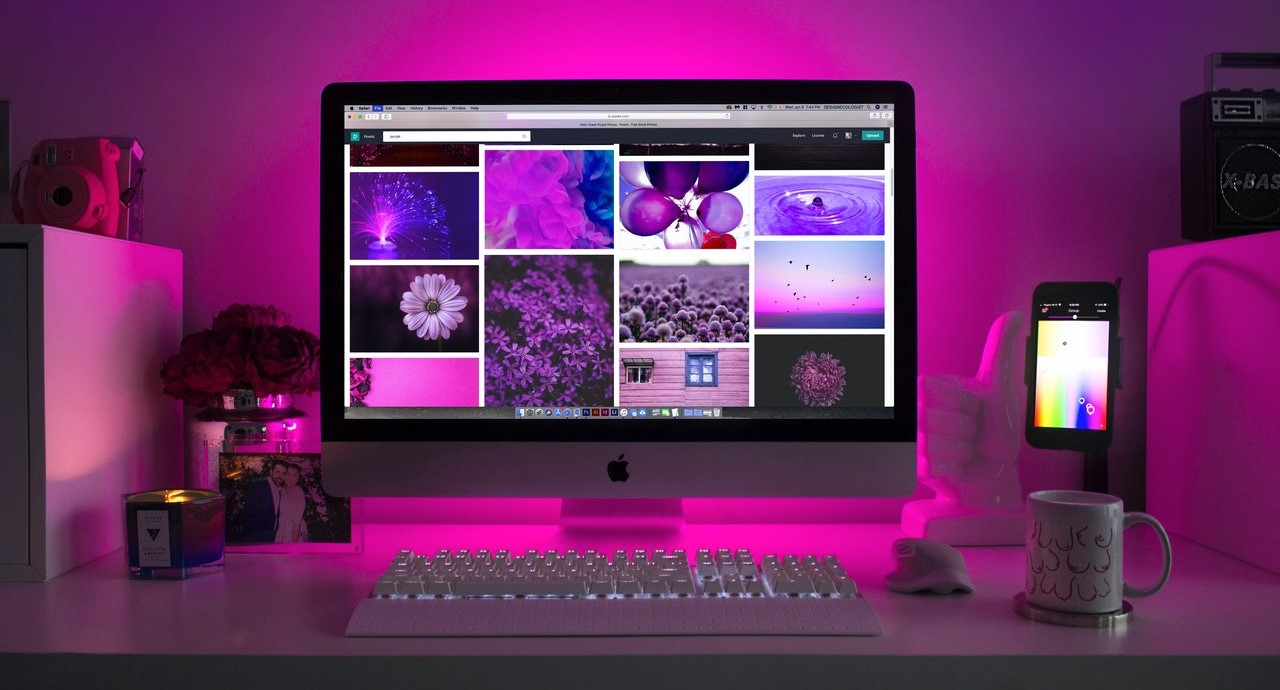
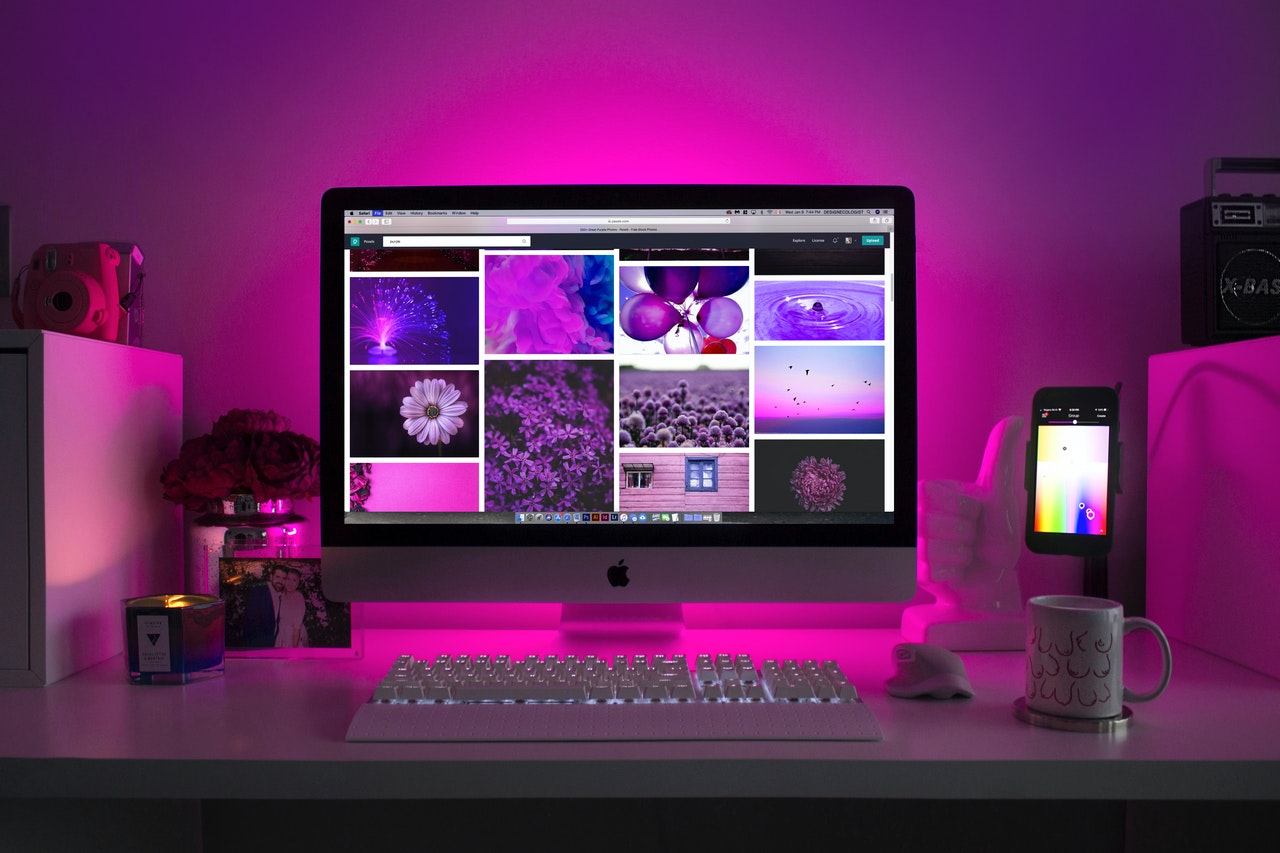
updated design, with different image for the hero (this is driving me crazy to have a responsive image with text in front of it) uploading the related css and images, i also included the link to download the resume, but i am not uploading the resume now as i still need to update it, the resume opens

diff --git a/index.html b/index.html
@@ -44,7 +44,7 @@
           <div class="col-4-lg col-4-md col-12-sm col-12-xs">
           <h2>Welcome to my portfolio</h2>
             <p>My name is Noha, I am an aspiring front-end developer</p>
-              <button type="button" class="btn btn-dark px-5 viewMyWorkBtn" >More About Me</button>
+              <button type="button" class="btn btn-primary px-5 viewMyWorkBtn" >More About Me</button>
           </div>
         </div>
       </div>
@@ -62,6 +62,7 @@
           <p>Hello,</p>
           <p>My name is Noha Ashraf, i am an aspiring fron-end developer located in Connecticut. I love creating websites that serve their purpose and have clean and easy to use interface</p>
           <p>Having lived in 3 continents and previously working in the sales arm of a software development company for 7 years, i have always seen the end result that clients got based on their requirements, so i decided to create these beautiful websites.</p>
+          <a href="./assets/resume/NOHA ASHRAF_Resume_2019.pdf" download>My Resume</a>
 
         </div>
       </div>

diff --git a/assets/styles/styles.css b/assets/styles/styles.css
@@ -8,9 +8,9 @@ body, html{
 
 .heroImage{
     position: relative;
-    height: 500px;
+    height: 600px;
     overflow: hidden;
-    background: url("../images/pexels-mockupeditorcom-205316.jpg") no-repeat center;
+    background: url("../images/pexels-ken-tomita-389818.jpg") no-repeat center;
     background-size: cover;
     margin-bottom: 20px;
 }
@@ -19,6 +19,10 @@ body, html{
     margin-top: 100px;
     padding-right: 70px;
     padding-left: 50px;
+    background-color: rgba(0, 0, 0, 0.534);
+    color: white;
+    padding-top: 40px;
+    padding-bottom: 40px;
 }
 
 .img-thumbnail{
